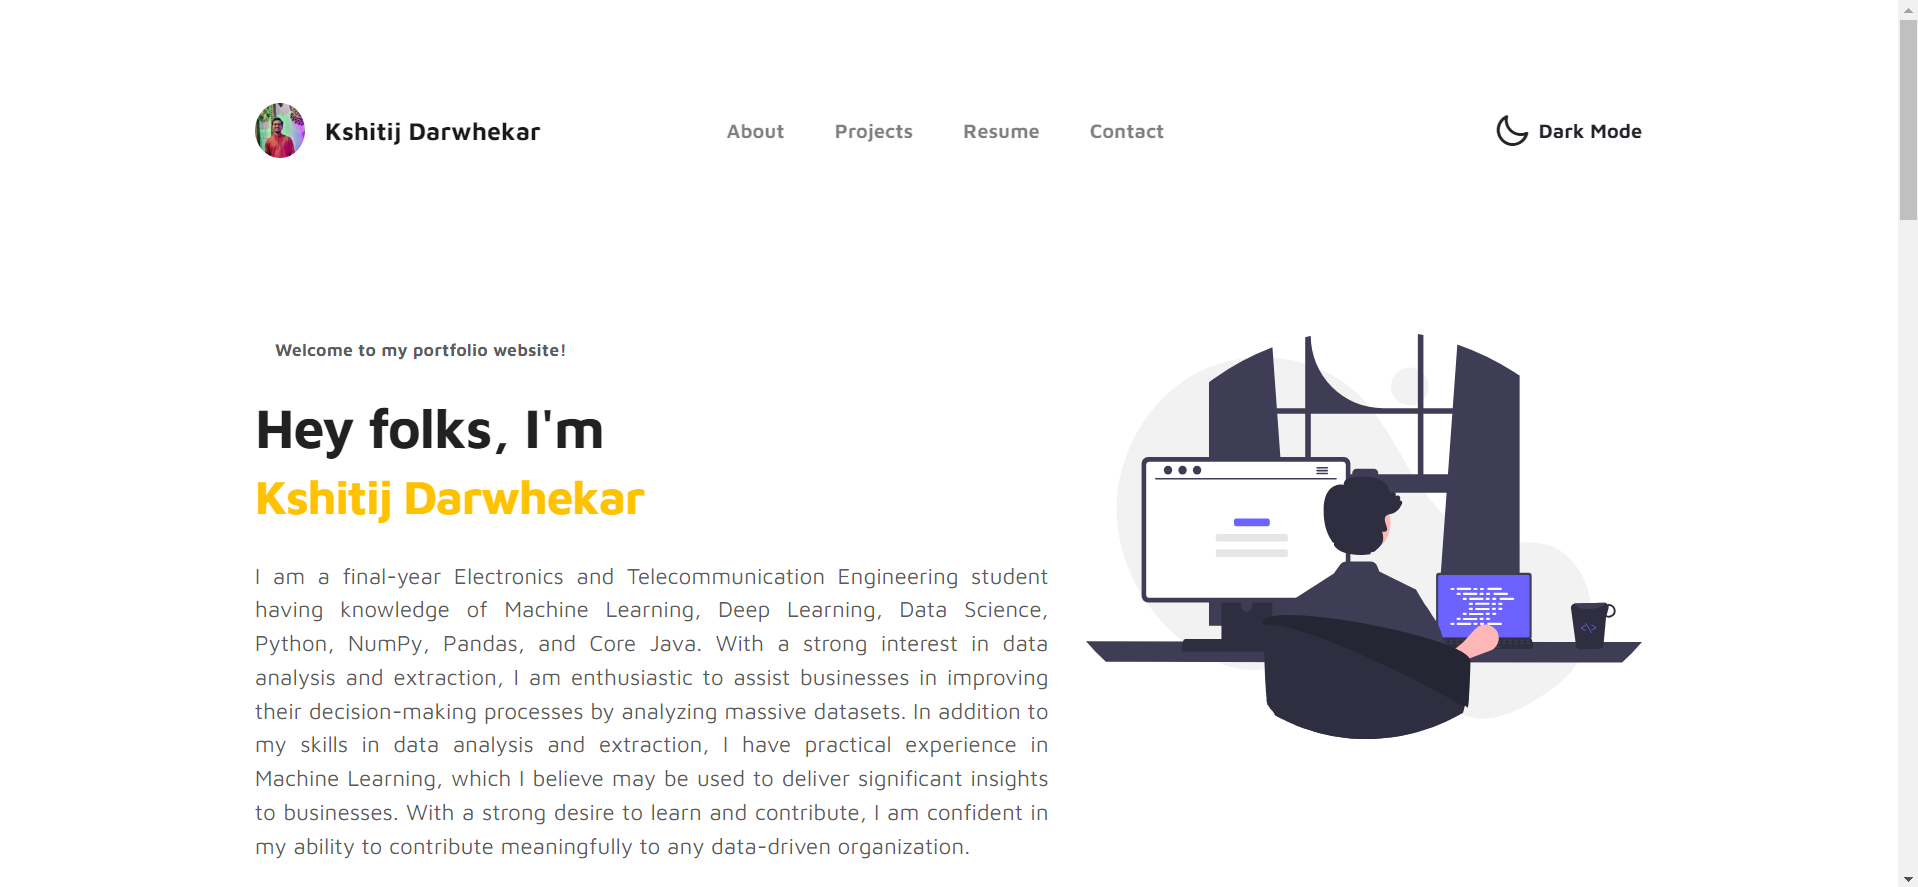
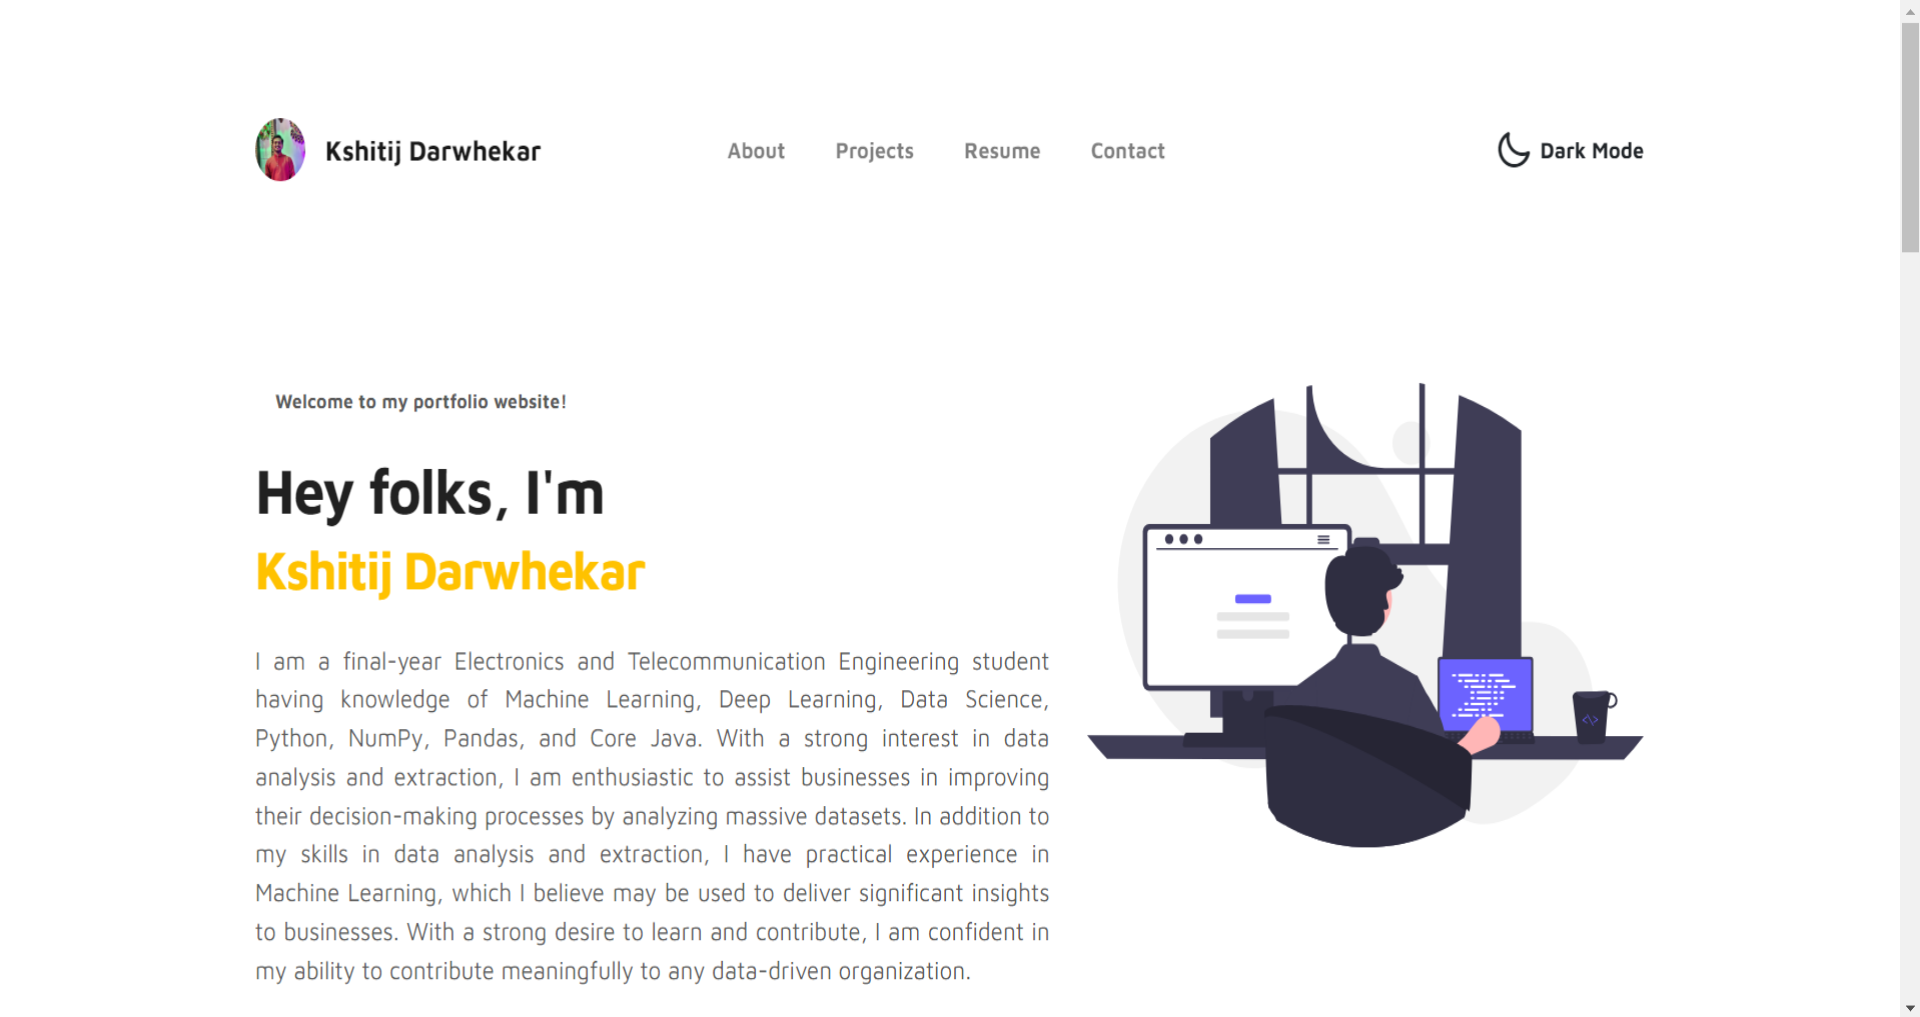
Resizing Images and Final Touches

diff --git a/portfolio-website/src/app/page.js b/portfolio-website/src/app/page.js
@@ -21,7 +21,7 @@ import Link from 'next/link';
 // import Resume from '../../public/Resume.pdf';
 
 
-import {BiLogoReact,BiLogoJava,BiLogoPython,BiLogoJavascript,BiLogoAngular,BiLogoNodejs, BiLogoSpringBoot,BiLogoMongodb,BiLogoCss3} from 'react-icons/bi'
+import {BiLogoReact,BiLogoJava,BiLogoPython,BiLogoJavascript,BiLogoAngular,BiLogoNodejs, BiLogoSpringBoot,BiLogoMongodb,BiLogoCss3,BiLogoTailwindCss, BiLogoBootstrap} from 'react-icons/bi'
 import{SiApachemaven,SiExpress,SiNumpy,SiPandas,SiMysql,SiHtml5} from 'react-icons/si'
 
 const imgStyle = {
@@ -150,41 +150,43 @@ export default function Home() {
 
                 <h2 className='text-3xl p-7 dark:text-gray-200'>Languages</h2>
                 <div className='flex flex-wrap justify-evenly'>
-                  <div className='p-2 text-xl dark:text-gray-200'><BiLogoPython className='w-52 h-52 text-cyan-500'/>Python</div>
-                  <div className='p-2 text-xl dark:text-gray-200'><BiLogoJavascript className='w-52 h-52 text-cyan-500'/>Java script</div>
-                  <div className='p-2 text-xl dark:text-gray-200'><BiLogoJava className='w-52 h-52 text-cyan-500'/> Java</div>
+                  <div className='p-2 text-xl dark:text-gray-200'><BiLogoPython className='w-48 h-48 text-cyan-500'/>Python</div>
+                  <div className='p-2 text-xl dark:text-gray-200'><BiLogoJavascript className='w-48 h-48 text-cyan-500'/>Java script</div>
+                  <div className='p-2 text-xl dark:text-gray-200'><BiLogoJava className='w-48 h-48 text-cyan-500'/> Java</div>
                 </div>
     
 
                 <h2 className='text-3xl p-10 my-13 dark:text-gray-200 '>Front End</h2>
                 <div className='flex flex-wrap justify-evenly'>
-                  <div className='p-2 text-xl dark:text-gray-200 '><BiLogoAngular className='w-52 h-52 text-cyan-500' />Angular</div>
-                  <div className='p-2 text-xl dark:text-gray-200'><BiLogoReact className='w-52 h-52 text-cyan-500'/>React</div>
-                  <div className='p-2 text-xl dark:text-gray-200'><SiHtml5 className='w-52 h-52 text-cyan-500 pb-5'/>HTML</div>
-                  <div className='p-2 text-xl dark:text-gray-200'><BiLogoCss3 className='w-52 h-52 text-cyan-500'/>CSS</div>
+                  <div className='p-2 text-xl dark:text-gray-200 '><BiLogoAngular className='w-48 h-48 text-cyan-500' />Angular</div>
+                  <div className='p-2 text-xl dark:text-gray-200'><BiLogoReact className='w-48 h-48 text-cyan-500'/>React</div>
+                  <div className='p-2 text-xl dark:text-gray-200'><SiHtml5 className='w-48 h-48 text-cyan-500'/>HTML</div>
+                  <div className='p-2 text-xl dark:text-gray-200'><BiLogoCss3 className='w-48 h-48 text-cyan-500'/>CSS</div>
+                  <div className='p-2 text-xl dark:text-gray-200'><BiLogoTailwindCss className='w-48 h-48 text-cyan-500'/>Tailwind CSS</div>
+                  <div className='p-2 text-xl dark:text-gray-200'><BiLogoBootstrap className='w-48 h-48 text-cyan-500'/>Bootstrap</div>
                 </div>
 
                 <h2 className='text-3xl p-7 dark:text-gray-200'>Back End</h2>
                 <div className='flex flex-wrap justify-evenly'>
-                  <div className='p-2 text-xl dark:text-gray-200'><BiLogoSpringBoot className='w-52 h-52 text-cyan-500'/> Spring Boot</div>
-                  <div className='p-2 text-xl dark:text-gray-200'><BiLogoNodejs className='w-52 h-52 text-cyan-500'/>Node Js</div>
-                  <div className='p-2 text-xl dark:text-gray-200'><SiExpress className='w-52 h-52 text-cyan-500 p-5'/> Express Js</div>
+                  <div className='p-2 text-xl dark:text-gray-200'><BiLogoSpringBoot className='w-48 h-48 text-cyan-500'/> Spring Boot</div>
+                  <div className='p-2 text-xl dark:text-gray-200'><BiLogoNodejs className='w-48 h-48 text-cyan-500'/>Node Js</div>
+                  <div className='p-2 text-xl dark:text-gray-200'><SiExpress className='w-48 h-48 text-cyan-500'/> Express Js</div>
                 </div>
 
 
                 <h2 className='text-3xl p-7 dark:text-gray-200'>Databases</h2>
                 <div className='flex flex-wrap justify-evenly'> 
-                  <div className='p-2 text-xl dark:text-gray-200'><BiLogoMongodb className='w-52 h-52 text-cyan-500'/>MongoDB</div>
-                  <div className='p-2 text-xl dark:text-gray-200'><SiMysql className='w-52 h-52 text-cyan-500'/>MySQL</div>
+                  <div className='p-2 text-xl dark:text-gray-200'><BiLogoMongodb className='w-48 h-48 text-cyan-500'/>MongoDB</div>
+                  <div className='p-2 text-xl dark:text-gray-200'><SiMysql className='w-48 h-48 text-cyan-500'/>MySQL</div>
                   
                 </div>
                 
                 
                 <h2 className='text-3xl p-7 dark:text-gray-200'>Other Technologies</h2>
                 <div className='flex flex-wrap justify-evenly'>
-                  <div className='p-2 text-xl dark:text-gray-200'><SiApachemaven className='w-52 h-52 text-cyan-500 p-5'/>Maven</div>
-                  <div className='p-2 text-xl dark:text-gray-200'><SiNumpy className='w-52 h-52 text-cyan-500 p-5'/>Numpy</div>
-                  <div className='p-2 text-xl dark:text-gray-200'><SiPandas className='w-52 h-52 text-cyan-500 p-5'/> Pandas</div>
+                  <div className='p-2 text-xl dark:text-gray-200'><SiApachemaven className='w-48 h-48 text-cyan-500 '/>Maven</div>
+                  <div className='p-2 text-xl dark:text-gray-200'><SiNumpy className='w-48 h-48 text-cyan-500 '/>Numpy</div>
+                  <div className='p-2 text-xl dark:text-gray-200'><SiPandas className='w-48 h-48 text-cyan-500 '/> Pandas</div>
                 </div>
 
               </div>

diff --git a/portfolio-website/src/app/layout.js b/portfolio-website/src/app/layout.js
@@ -4,7 +4,7 @@ import { Inter } from 'next/font/google'
 const inter = Inter({ subsets: ['latin'] })
 
 export const metadata = {
-  title: 'Kshitij Portfolio',
+  title: "Kshitij's Portfolio",
   description: 'Generated by create next app',
 }
 
